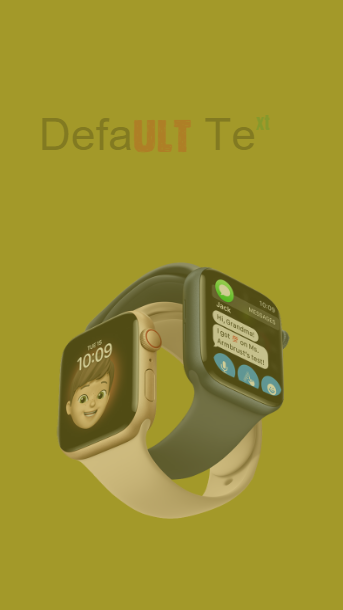
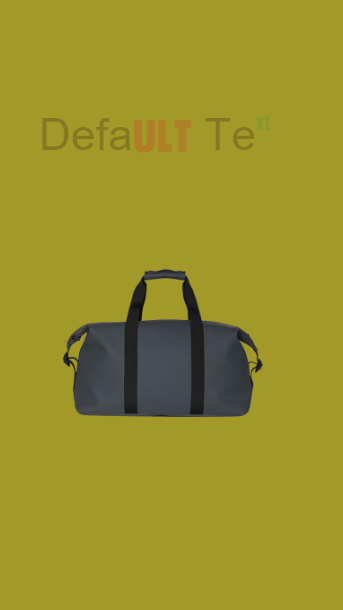
Delete Done

Changed region(s): [[0.1458, 0.4049, 0.8455, 0.8721]]

diff --git a/AnimationProject/wwwroot/js/animations.js b/AnimationProject/wwwroot/js/animations.js
@@ -382,19 +382,46 @@ document.addEventListener("click", function (e) {
 
 
 // When the Delete option is clicked, remove the selected object.
+//document.getElementById("deleteOption").addEventListener("click", function (e) {
+//    if (selectedForContextMenu) {
+//        if (selectedType === "text") {
+//            textObjects = textObjects.filter(obj => obj !== selectedForContextMenu);
+//        } else if (selectedType === "image") {
+//            // Remove from images array
+//            images = images.filter(imgObj => imgObj !== selectedForContextMenu);
+//        }
+//        drawCanvas('Common');
+//        selectedForContextMenu = null;
+//        contextMenu.style.display = "none";
+//    }
+//});
 document.getElementById("deleteOption").addEventListener("click", function (e) {
-    if (selectedForContextMenu) {
-        if (selectedType === "text") {
-            textObjects = textObjects.filter(obj => obj !== selectedForContextMenu);
-        } else if (selectedType === "image") {
-            // Remove from images array
-            images = images.filter(imgObj => imgObj !== selectedForContextMenu);
-        }
-        drawCanvas('Common');
-        selectedForContextMenu = null;
-        contextMenu.style.display = "none";
+    e.preventDefault();
+    e.stopPropagation();
+
+    if (!selectedForContextMenu) return;
+
+    // pick the right collection
+    const arr = (selectedType === "image") ? images : textObjects;
+
+    // IMPORTANT: delete in-place so existing references to the array stay valid
+    const idx = arr.indexOf(selectedForContextMenu);
+    if (idx > -1) {
+        arr.splice(idx, 1);
     }
+
+    // clear any other selection state that could redraw it
+    if (selectedForContextMenu.selected) selectedForContextMenu.selected = false;
+    if (activeText === selectedForContextMenu) activeText = null;
+    if (activeImage === selectedForContextMenu) activeImage = null;
+    if (activeBox === selectedForContextMenu) activeBox = null;
+
+    selectedForContextMenu = null;
+    contextMenu.style.display = "none";
+
+    drawText();
 });
+
 window.addEventListener("keydown", function (e) {
     const active = document.activeElement;
     // if focus is in any input/textarea or a contenteditable element, skip our canvas‐delete logic
@@ -9000,6 +9027,7 @@ canvas.addEventListener("mousedown", e => {
     // 🔁 NEW: search topmost among images + text
     const allTop = [...(images || []), ...(textObjects || [])].sort((a, b) => (b.zIndex || 0) - (a.zIndex || 0));
     let hit = null;
+    selectedForContextMenu = null;
     for (let i = allTop.length - 1; i >= 0; i--) {
         const b = allTop[i];
         if (pointInBox(b, mx, my)) { hit = b; break; }
@@ -9013,7 +9041,7 @@ canvas.addEventListener("mousedown", e => {
 
     if (hit) {
         hit.selected = true;
-
+        selectedForContextMenu = hit;
         // decide which "active" to set
         if (hit.type === "image" || hit.img) {
             activeImage = hit;
